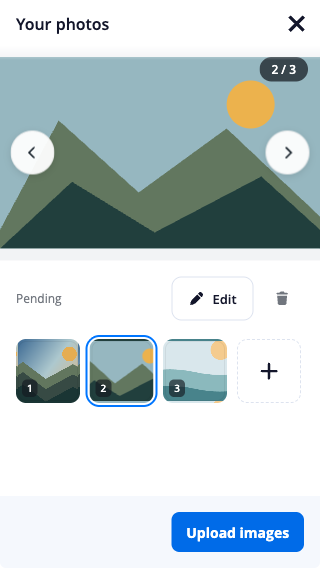
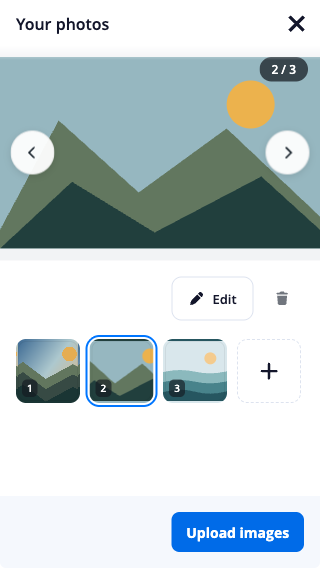
fix(web): hide pending status in image carousel

Changed region(s): [[0.5, 0.5986, 0.7188, 0.7183], [0.0312, 0.5088, 0.1875, 0.5387]]

diff --git a/packages/paperlesspaper-web/src/components/Epaper/Integrations/MultiImageUploadEditor/ImageUploadCarousel.tsx b/packages/paperlesspaper-web/src/components/Epaper/Integrations/MultiImageUploadEditor/ImageUploadCarousel.tsx
@@ -42,15 +42,13 @@ export default function ImageUploadCarousel({
   const indexRef = React.useRef(index);
   indexRef.current = index;
   const status = (image: SelectedImage) =>
-    t(
-      image.status === "uploaded"
-        ? "Uploaded"
-        : image.status === "failed"
-        ? "Upload failed"
-        : image.status === "uploading"
-        ? "Uploading…"
-        : "Pending"
-    );
+    image.status === "uploaded"
+      ? t("Uploaded")
+      : image.status === "failed"
+      ? t("Upload failed")
+      : image.status === "uploading"
+      ? t("Uploading…")
+      : "";
 
   // Native scroll snapping supports touch, trackpads and browser zoom without
   // turning vertical scrolling into a custom drag gesture.
@@ -132,7 +130,8 @@ export default function ImageUploadCarousel({
               )}
               <figcaption className={styles.srOnly}>
                 <p>
-                  {i + 1}. {image.fileName} — {status(image)}
+                  {i + 1}. {image.fileName}
+                  {status(image) && ` — ${status(image)}`}
                 </p>
               </figcaption>
             </figure>
@@ -163,13 +162,15 @@ export default function ImageUploadCarousel({
       </div>
       <div className={styles.details}>
         <div className={styles.imageStatus}>
-          <span
-            className={
-              current.status === "failed" ? styles.failed : styles.status
-            }
-          >
-            {status(current)}
-          </span>
+          {status(current) && (
+            <span
+              className={
+                current.status === "failed" ? styles.failed : styles.status
+              }
+            >
+              {status(current)}
+            </span>
+          )}
         </div>
         {current.status !== "uploaded" && (
           <div className={styles.actions}>
